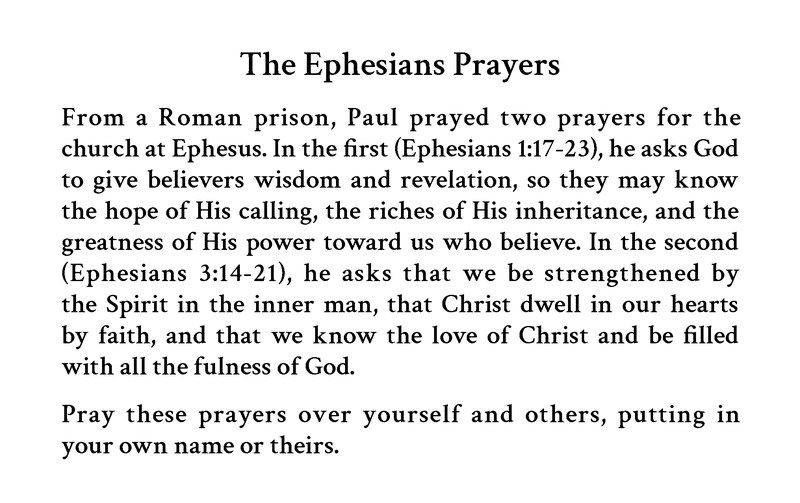
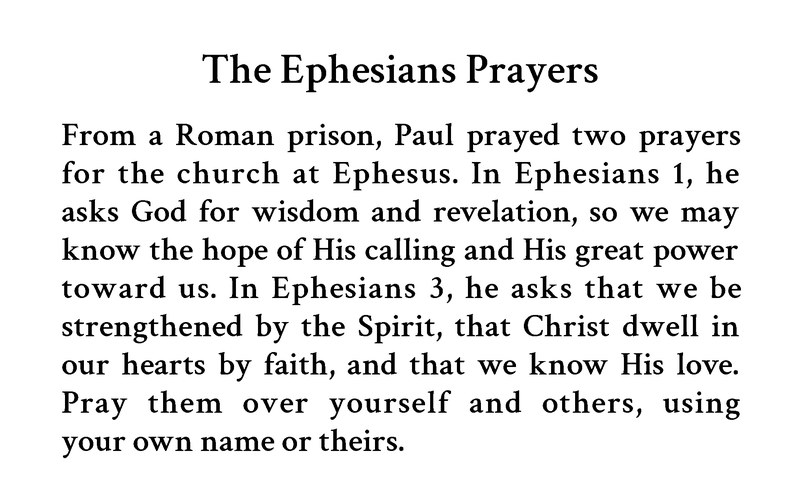
Use the short explanation on The Ephesian Prayers card 1 front
Kevin approved the shorter 1 Front explanation text. The verse list and card image match that wording.

Changed region(s): [[0.0625, 0.2087, 0.9375, 0.7455], [0.0625, 0.7753, 0.9375, 0.9245], [0.25, 0.0895, 0.75, 0.1789]]

diff --git a/sets/ephesian-prayers.html b/sets/ephesian-prayers.html
@@ -8,12 +8,12 @@
 <a href="../contact.html">Contact</a></nav></div></header>
 <main class="wrap"><div class="set-hero"><img src="../assets/sets/ephesian-prayers/mockup-hero.jpg?v=20261123" alt="The Ephesian Prayers Scripture Cards: banded stack with the front cover on top (simulated preview)">
 <div><p class="eyebrow">Scripture Card set</p><h1>The Ephesian Prayers</h1><p class="lead">Paul’s prayers for the church at Ephesus: Ephesians 1:15–23 and 3:14–21. Card 1 Front explains the set; the verses then run one per side.</p><p>9 cards · 17 verses and a set explanation</p>
-<p class="small"><a href="../assets/sets/ephesian-prayers/ephesian-prayers-card-list.txt?v=20261123">Verse list (text)</a></p></div></div>
+<p class="small"><a href="../assets/sets/ephesian-prayers/ephesian-prayers-card-list.txt?v=20261123s">Verse list (text)</a></p></div></div>
 <figure class="mockup"><img loading="lazy" src="../assets/sets/ephesian-prayers/mockup-cards.jpg?v=20261123" alt="Three The Ephesian Prayers cards shown as engraved black cards (simulated preview)"><figcaption>Simulated preview of the finished engraved cards.</figcaption></figure>
 <div class="chips" role="navigation" aria-label="Sets"><a class="chip" href="salvation.html">Salvation</a> <a class="chip" href="psalm-23.html">Psalm 23</a> <a class="chip" href="psalm-91.html">Psalm 91</a> <a class="chip" href="good-shepherd.html">The Good Shepherd</a> <a class="chip" href="true-vine.html">The True Vine</a> <a class="chip on" href="ephesian-prayers.html">The Ephesian Prayers</a> <a class="chip" href="faith.html">Faith</a> <a class="chip" href="walking-in-love.html">Walking in Love</a> <a class="chip" href="mercy-of-god.html">Mercy of God</a> <a class="chip" href="word-faith-transformation.html">Word Faith Transformation</a> <a class="chip" href="foundations.html">Foundations</a> <a class="chip" href="daily-bread.html">Daily Bread</a></div>
 <h2>The verses</h2><div class="cards"><article class="wcard" id="card-1"><h3>Card 1</h3>
-<div class="imgs"><img loading="lazy" src="../assets/sets/ephesian-prayers/cards/ephesian-prayers-card-01-front.jpg?v=20261123" alt="Card 1 front"><img loading="lazy" src="../assets/sets/ephesian-prayers/cards/ephesian-prayers-card-01-back.jpg?v=20261123" alt="Card 1 back"></div>
-<div class="verses"><div class="verse"><span class="side">Front</span><p><strong>The Ephesians Prayers.</strong> From a Roman prison, Paul prayed two prayers for the church at Ephesus. In the first (Ephesians 1:17-23), he asks God to give believers wisdom and revelation, so they may know the hope of His calling, the riches of His inheritance, and the greatness of His power toward us who believe. In the second (Ephesians 3:14-21), he asks that we be strengthened by the Spirit in the inner man, that Christ dwell in our hearts by faith, and that we know the love of Christ and be filled with all the fulness of God.</p><p>Pray these prayers over yourself and others, putting in your own name or theirs.</p><cite>Explanation</cite></div><div class="verse"><span class="side">Back</span><p>Wherefore I also, after I heard of your faith in the Lord Jesus, and love unto all the saints,</p><cite>Ephesians 1:15</cite></div></div></article><article class="wcard" id="card-2"><h3>Card 2</h3>
+<div class="imgs"><img loading="lazy" src="../assets/sets/ephesian-prayers/cards/ephesian-prayers-card-01-front.jpg?v=20261123s" alt="Card 1 front"><img loading="lazy" src="../assets/sets/ephesian-prayers/cards/ephesian-prayers-card-01-back.jpg?v=20261123" alt="Card 1 back"></div>
+<div class="verses"><div class="verse"><span class="side">Front</span><p><strong>The Ephesians Prayers.</strong> From a Roman prison, Paul prayed two prayers for the church at Ephesus. In Ephesians 1, he asks God for wisdom and revelation, so we may know the hope of His calling and His great power toward us. In Ephesians 3, he asks that we be strengthened by the Spirit, that Christ dwell in our hearts by faith, and that we know His love. Pray them over yourself and others, using your own name or theirs.</p><cite>Explanation</cite></div><div class="verse"><span class="side">Back</span><p>Wherefore I also, after I heard of your faith in the Lord Jesus, and love unto all the saints,</p><cite>Ephesians 1:15</cite></div></div></article><article class="wcard" id="card-2"><h3>Card 2</h3>
 <div class="imgs"><img loading="lazy" src="../assets/sets/ephesian-prayers/cards/ephesian-prayers-card-02-front.jpg?v=20261123" alt="Card 2 front"><img loading="lazy" src="../assets/sets/ephesian-prayers/cards/ephesian-prayers-card-02-back.jpg?v=20261123" alt="Card 2 back"></div>
 <div class="verses"><div class="verse"><span class="side">Front</span><p>Cease not to give thanks for you, making mention of you in my prayers;</p><cite>Ephesians 1:16</cite></div><div class="verse"><span class="side">Back</span><p>That the God of our Lord Jesus Christ, the Father of glory, may give unto you the spirit of wisdom and revelation in the knowledge of him:</p><cite>Ephesians 1:17</cite></div></div></article><article class="wcard" id="card-3"><h3>Card 3</h3>
 <div class="imgs"><img loading="lazy" src="../assets/sets/ephesian-prayers/cards/ephesian-prayers-card-03-front.jpg?v=20261123" alt="Card 3 front"><img loading="lazy" src="../assets/sets/ephesian-prayers/cards/ephesian-prayers-card-03-back.jpg?v=20261123" alt="Card 3 back"></div>
